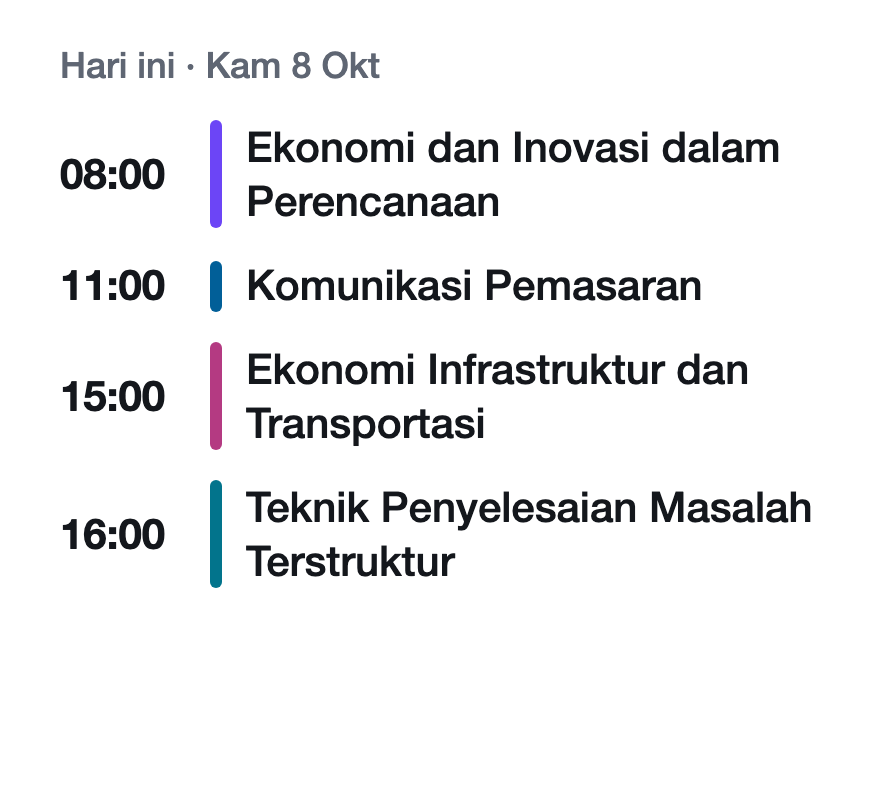
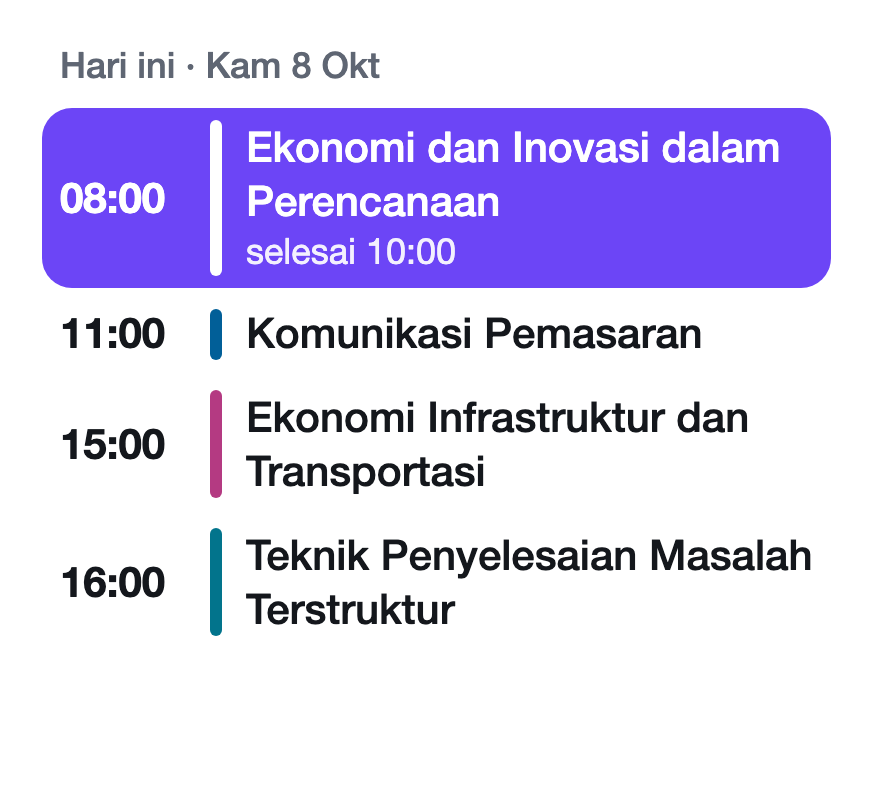
fix(widgets): the picker shows each widget as it's first placed, and a lone exam sits in the middle of its block
The picker's pictures are cut from the real drawing at the same moment as the widget's first size: the class on now
with its button, the same course in the same colour. They are native assets: they reach a phone with the next build.
Satu mata kuliah with no course picked and no class ahead says how to pick one.

Changed region(s): [[0.0309, 0.1244, 0.9588, 0.7774], [0.0619, 0.6219, 0.1856, 0.7463], [0.0619, 0.4664, 0.1856, 0.5908]]

diff --git a/test/mobile/widget-drawings.test.tsx b/test/mobile/widget-drawings.test.tsx
@@ -205,7 +205,7 @@ const RENDER: Record<string, { title: string; sizes: ReturnType<typeof phone>[];
   Due: { title: "Tenggat", sizes: [phone(2, 2), phone(3, 2), phone(4, 2)], first: "3×2" },
   Attendance: { title: "Jatah absen", sizes: [phone(2, 2), phone(3, 2), phone(4, 2)], first: "3×2" },
   Next: { title: "Kelas berikutnya", sizes: [phone(1, 1), phone(2, 1)], first: "1×1" },
-  Course: { title: "Satu mata kuliah", sizes: [phone(2, 1), phone(3, 1), phone(3, 2)], first: "3×1" },
+  Course: { title: "Satu mata kuliah", sizes: [phone(3, 1), phone(3, 2)], first: "3×1" },
 };
 
 const emptied = (names: string[]) => (one: Shot) => ({ ...one, datasets: one.datasets.map((d) => (names.includes(d.name) ? { ...d, value: [] } : d)) }) as Shot;
@@ -236,6 +236,8 @@ const noPresence = (one: Shot) =>
     datasets: one.datasets.map((d) => (d.name === "edunex.presence" || d.name === "edunex.materials" ? { ...d, value: Array.isArray(d.value) ? [] : {} } : d)),
   }) as Shot;
 
+/** The picker's own grey behind a preview, so a white card's corners show (the script clears it before it cuts the asset). */
+const PICKER = "#e3e7ee";
 const WALLPAPER = { light: "linear-gradient(135deg,#bfeeee 0%,#9fd84a 48%,#6b3fe0 100%)", dark: "linear-gradient(135deg,#10222c 0%,#1d3a17 48%,#2a1a5e 100%)" };
 
 function renderPages(folder: string): void {
@@ -250,7 +252,7 @@ function renderPages(folder: string): void {
     } finally {
       fontScale = 1;
     }
-    return `<figure style="margin:0"><div data-shot="${name.toLowerCase()}-${state}-${size.label.replace("×", "x")}-${scheme}" style="display:inline-block;padding:18px;border-radius:12px;background:${state === "preview" ? "transparent" : WALLPAPER[scheme]}">${inner}</div></figure>`;
+    return `<figure style="margin:0"><div data-shot="${name.toLowerCase()}-${state}-${size.label.replace("×", "x")}-${scheme}" style="display:inline-block;padding:18px;border-radius:12px;background:${state === "preview" ? PICKER : WALLPAPER[scheme]}">${inner}</div></figure>`;
   };
   for (const [name, { title, sizes, first }] of Object.entries(RENDER)) {
     const rows: string[] = [];
@@ -276,12 +278,10 @@ function renderPages(folder: string): void {
         some.flatMap((size) => [tile(name, state, size, "light", from), tile(name, state, size, "dark", from)]),
       );
     }
-    // The picker's picture (scripts/make-widget-previews.mjs keeps it): the first size, light, an hour before the first
-    // class and with no read stamped, so it claims nothing live ("Sedang berlangsung", "Diperbarui pukul …").
-    const before = worldOf(
-      (one) => ({ ...one, statuses: one.statuses.map((status) => ({ ...status, updatedAt: null })) }) as Shot,
-      Date.parse("2026-10-08T07:00:00+07:00"),
-    );
+    // The picker's picture (scripts/make-widget-previews.mjs keeps it): the widget as it's first placed, light, at the
+    // same moment as the pictures above, so it shows what the widget is for (the class on now with its button, the
+    // same course in the same colour). No read stamped: a picture in the picker can't say when the data is from.
+    const before = worldOf((one) => ({ ...one, statuses: one.statuses.map((status) => ({ ...status, updatedAt: null })) }) as Shot);
     const firstSize = sizes.find((one) => one.label === first)!;
     rows.push(`<section><h2>In the picker · ${firstSize.label}</h2>${tile(name, "preview", firstSize, "light", before)}</section>`);
     fs.writeFileSync(

diff --git a/test/mobile/widget-model.test.ts b/test/mobile/widget-model.test.ts
@@ -160,4 +160,33 @@ describe("the widget", () => {
       },
     });
   });
+
+  it("a week without classes keeps what needs the Student; the card alone only with nothing else to say", async () => {
+    const own = await startHome();
+    const snapshot = own.engine.snapshot();
+    const model = widgetModel(
+      {
+        ...snapshot,
+        datasets: snapshot.datasets.map((d) =>
+          d.name === "six.schedule" || d.name === "edunex.presence" || d.name === "edunex.materials" ? { ...d, value: Array.isArray(d.value) ? [] : {} } : d,
+        ),
+      } as typeof snapshot,
+      own.world.clock.now(),
+    );
+    expect(model.now).toMatchObject({ label: "Tidak ada kuliah dalam seminggu ke depan." });
+    expect(model.needs?.heading).toBe("Perlu perhatianmu");
+    expect(model.needs?.items.length).toBeGreaterThan(0);
+    expect(model.quiet.now).toBeNull();
+    // "Hari ini" has nothing of its own: the shared card, in SIX's own words (never "Libur": a week off isn't always one).
+    expect(model.quiet.today).toMatchObject({ state: "holiday", label: "Tidak ada kuliah dalam seminggu ke depan.", short: "Tidak ada kuliah" });
+  });
+
+  it("once today's last class is over, Hari ini says so in Kuliah's words, and a need names its course as the rows do", async () => {
+    const own = await startHome();
+    const evening = widgetModel(own.engine.snapshot(), Date.parse("2026-10-08T19:00:00+07:00"));
+    expect(evening.today?.done).toBe("Kelas hari ini sudah selesai");
+    const morning = widgetModel(own.engine.snapshot(), own.world.clock.now());
+    expect(morning.today?.done).toBeUndefined();
+    expect(morning.needs?.items.map((item) => item.named ?? item.label)).toContain("UTS Komunikasi Pemasaran");
+  });
 });

diff --git a/test/mobile/widget-models.test.ts b/test/mobile/widget-models.test.ts
@@ -361,6 +361,20 @@ describe("Satu mata kuliah", () => {
     expect(courseWidget(facts, "XX0000").course?.code).toBe("PL3002");
   });
 
+  it("none chosen and no class ahead to choose by: says how to pick one, never somebody's first course", () => {
+    const noClass = factsOf(h, (shot) => ({ ...shot, datasets: shot.datasets.map((d) => (d.name === "six.schedule" ? { ...d, value: [] } : d)) }));
+    const model = courseWidget(noClass, null);
+    expect(model).toMatchObject({
+      state: "empty",
+      course: null,
+      quiet: { name: "Mata kuliah", label: "Tahan widget ini untuk memilih mata kuliah.", short: "Pilih mata kuliah", action: "Buka Kuliah" },
+    });
+    // A day turning over can bring a class within reach.
+    expect(model.changesAt).toBe(at("2026-10-09T00:00:00+07:00"));
+    // A course the Student did choose is shown, class or no class.
+    expect(courseWidget(noClass, "II4091").course?.code).toBe("II4091");
+  });
+
   it("never opened: where to start", async () => {
     const empty = await startEngine();
     expect(courseWidget(widgetFacts(empty.engine.snapshot(), empty.world.clock.now()), null)).toMatchObject({

diff --git a/mobile/src/widget/views.tsx b/mobile/src/widget/views.tsx
@@ -300,7 +300,8 @@ export function ExamView({ model, size, theme }: { model: ExamWidget; size: Widg
         borderColor: hex(block.edge),
         backgroundColor: hex(block.bg),
         flexDirection: "column",
-        justifyContent: "space-between",
+        // Alone on the block, the lockup sits in its middle: no gap gathers under it.
+        justifyContent: rows.length || problem ? "space-between" : "center",
       }}
     >
       {split ? (
